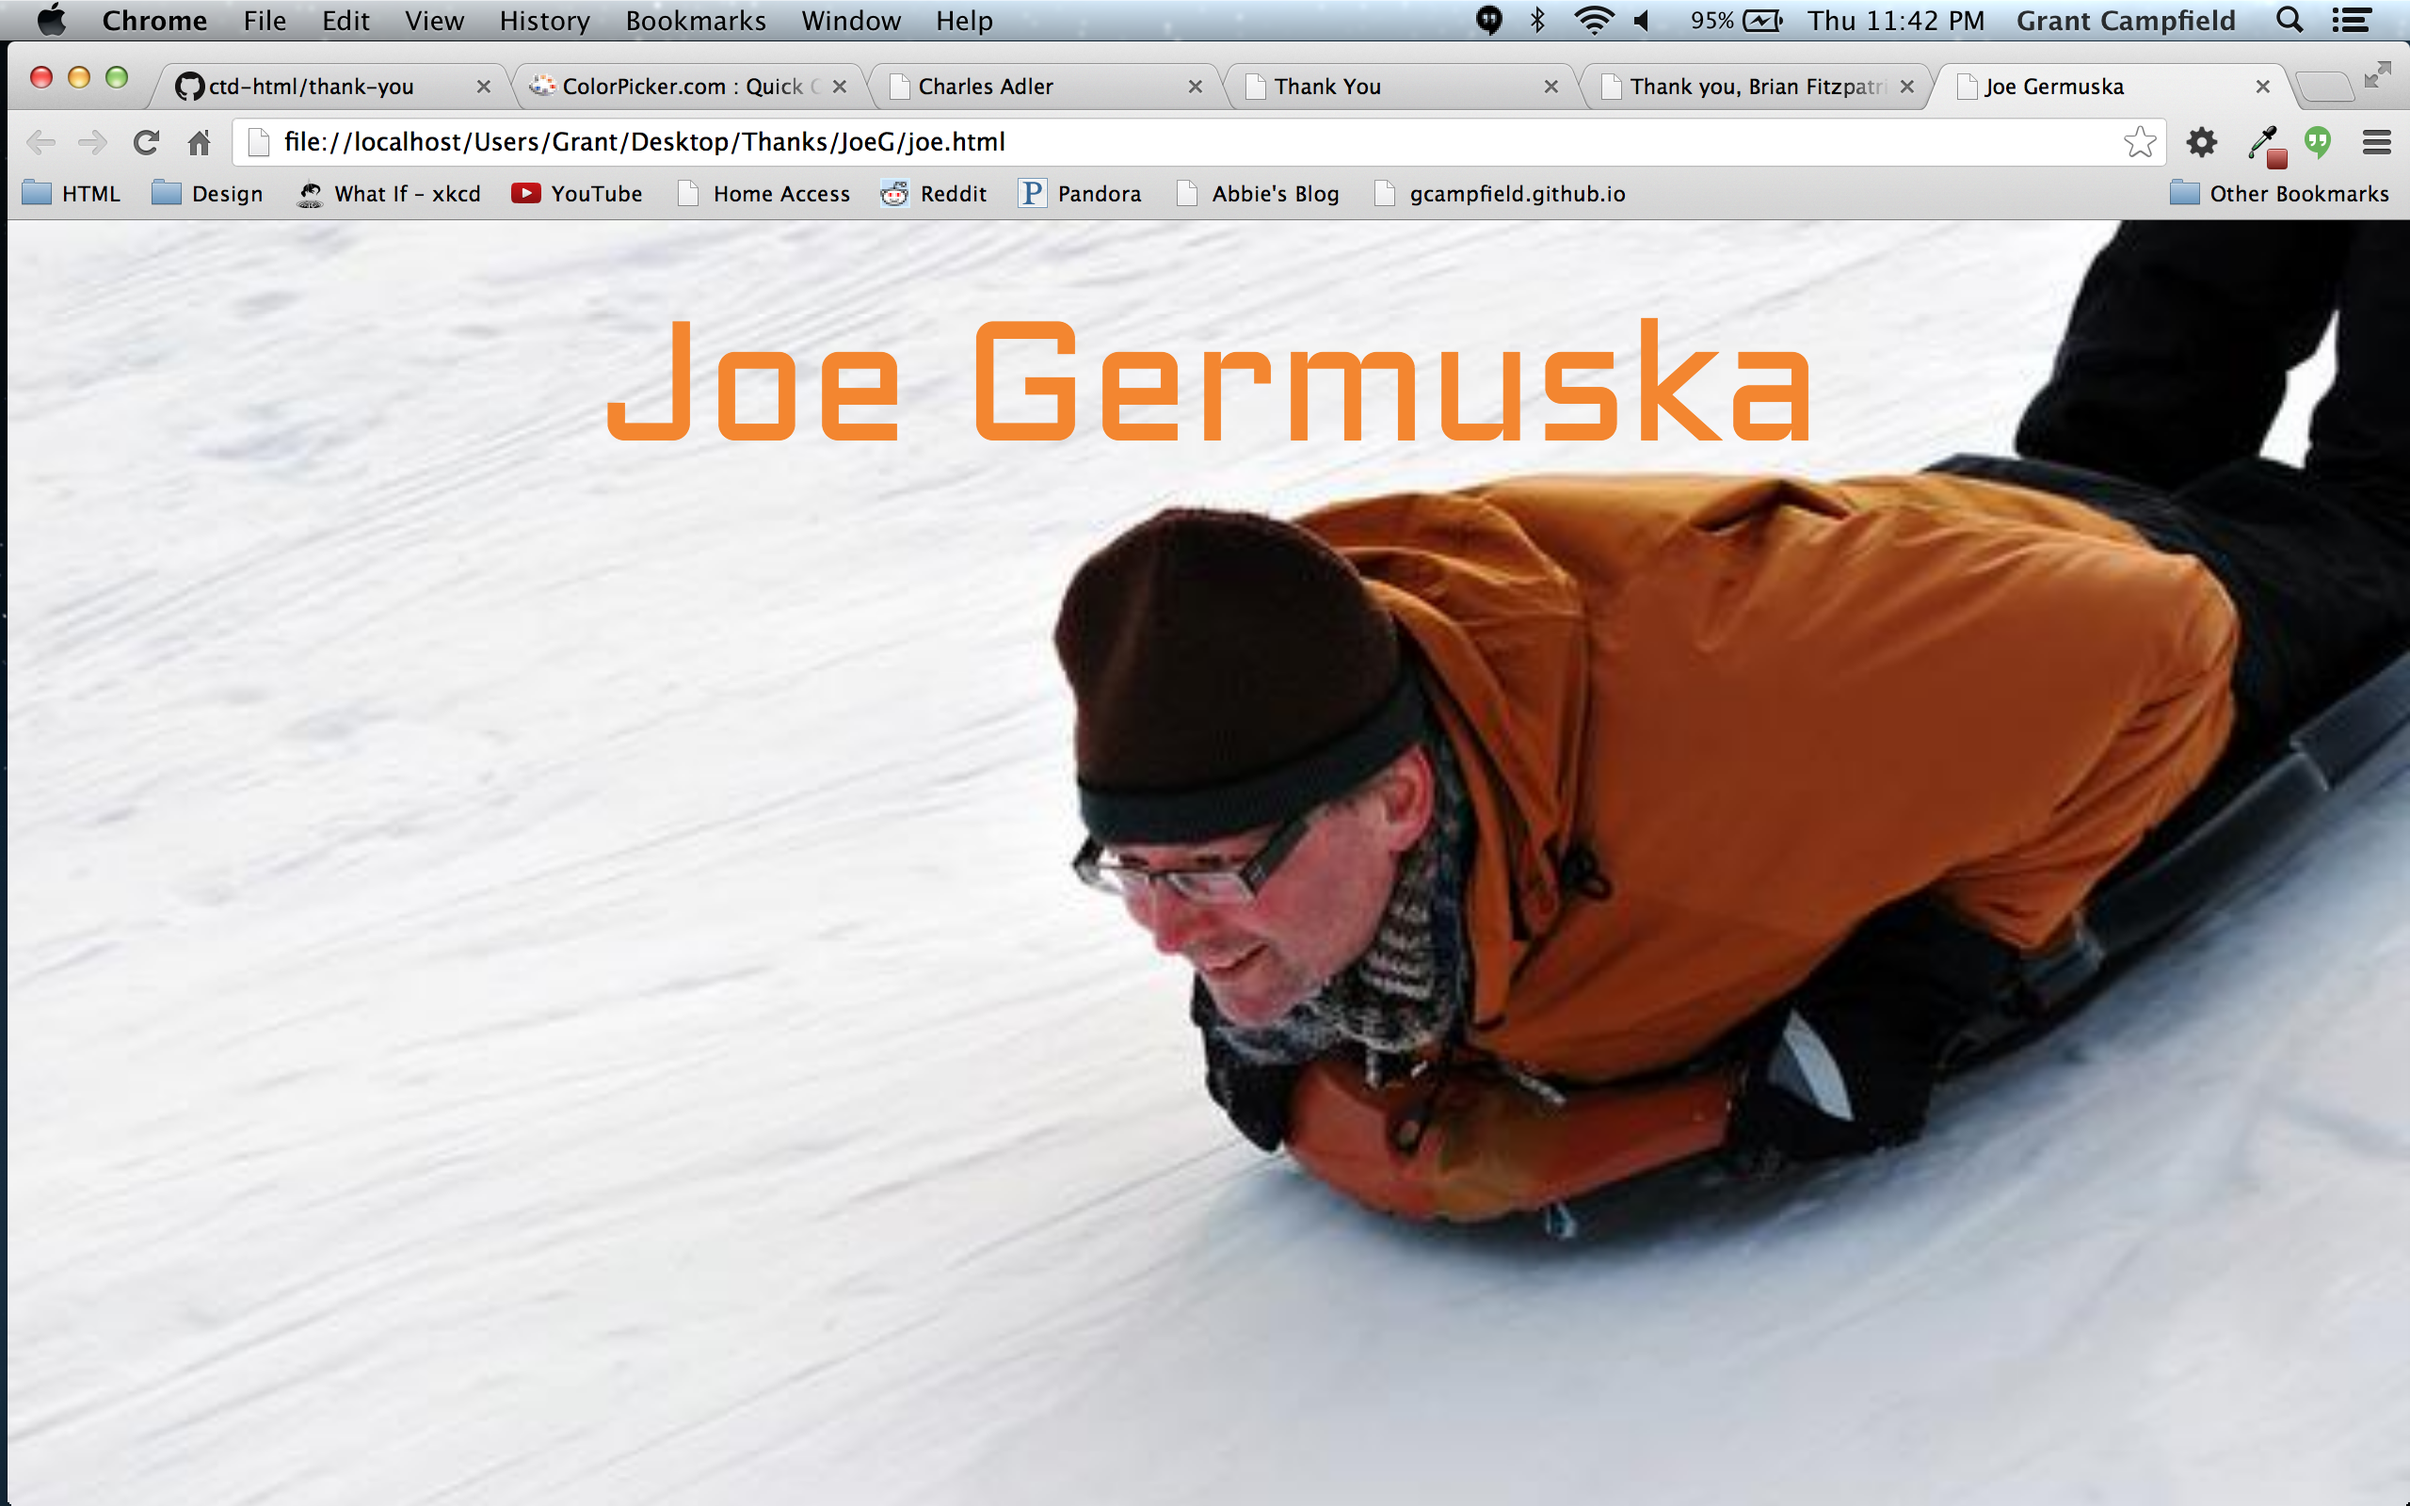
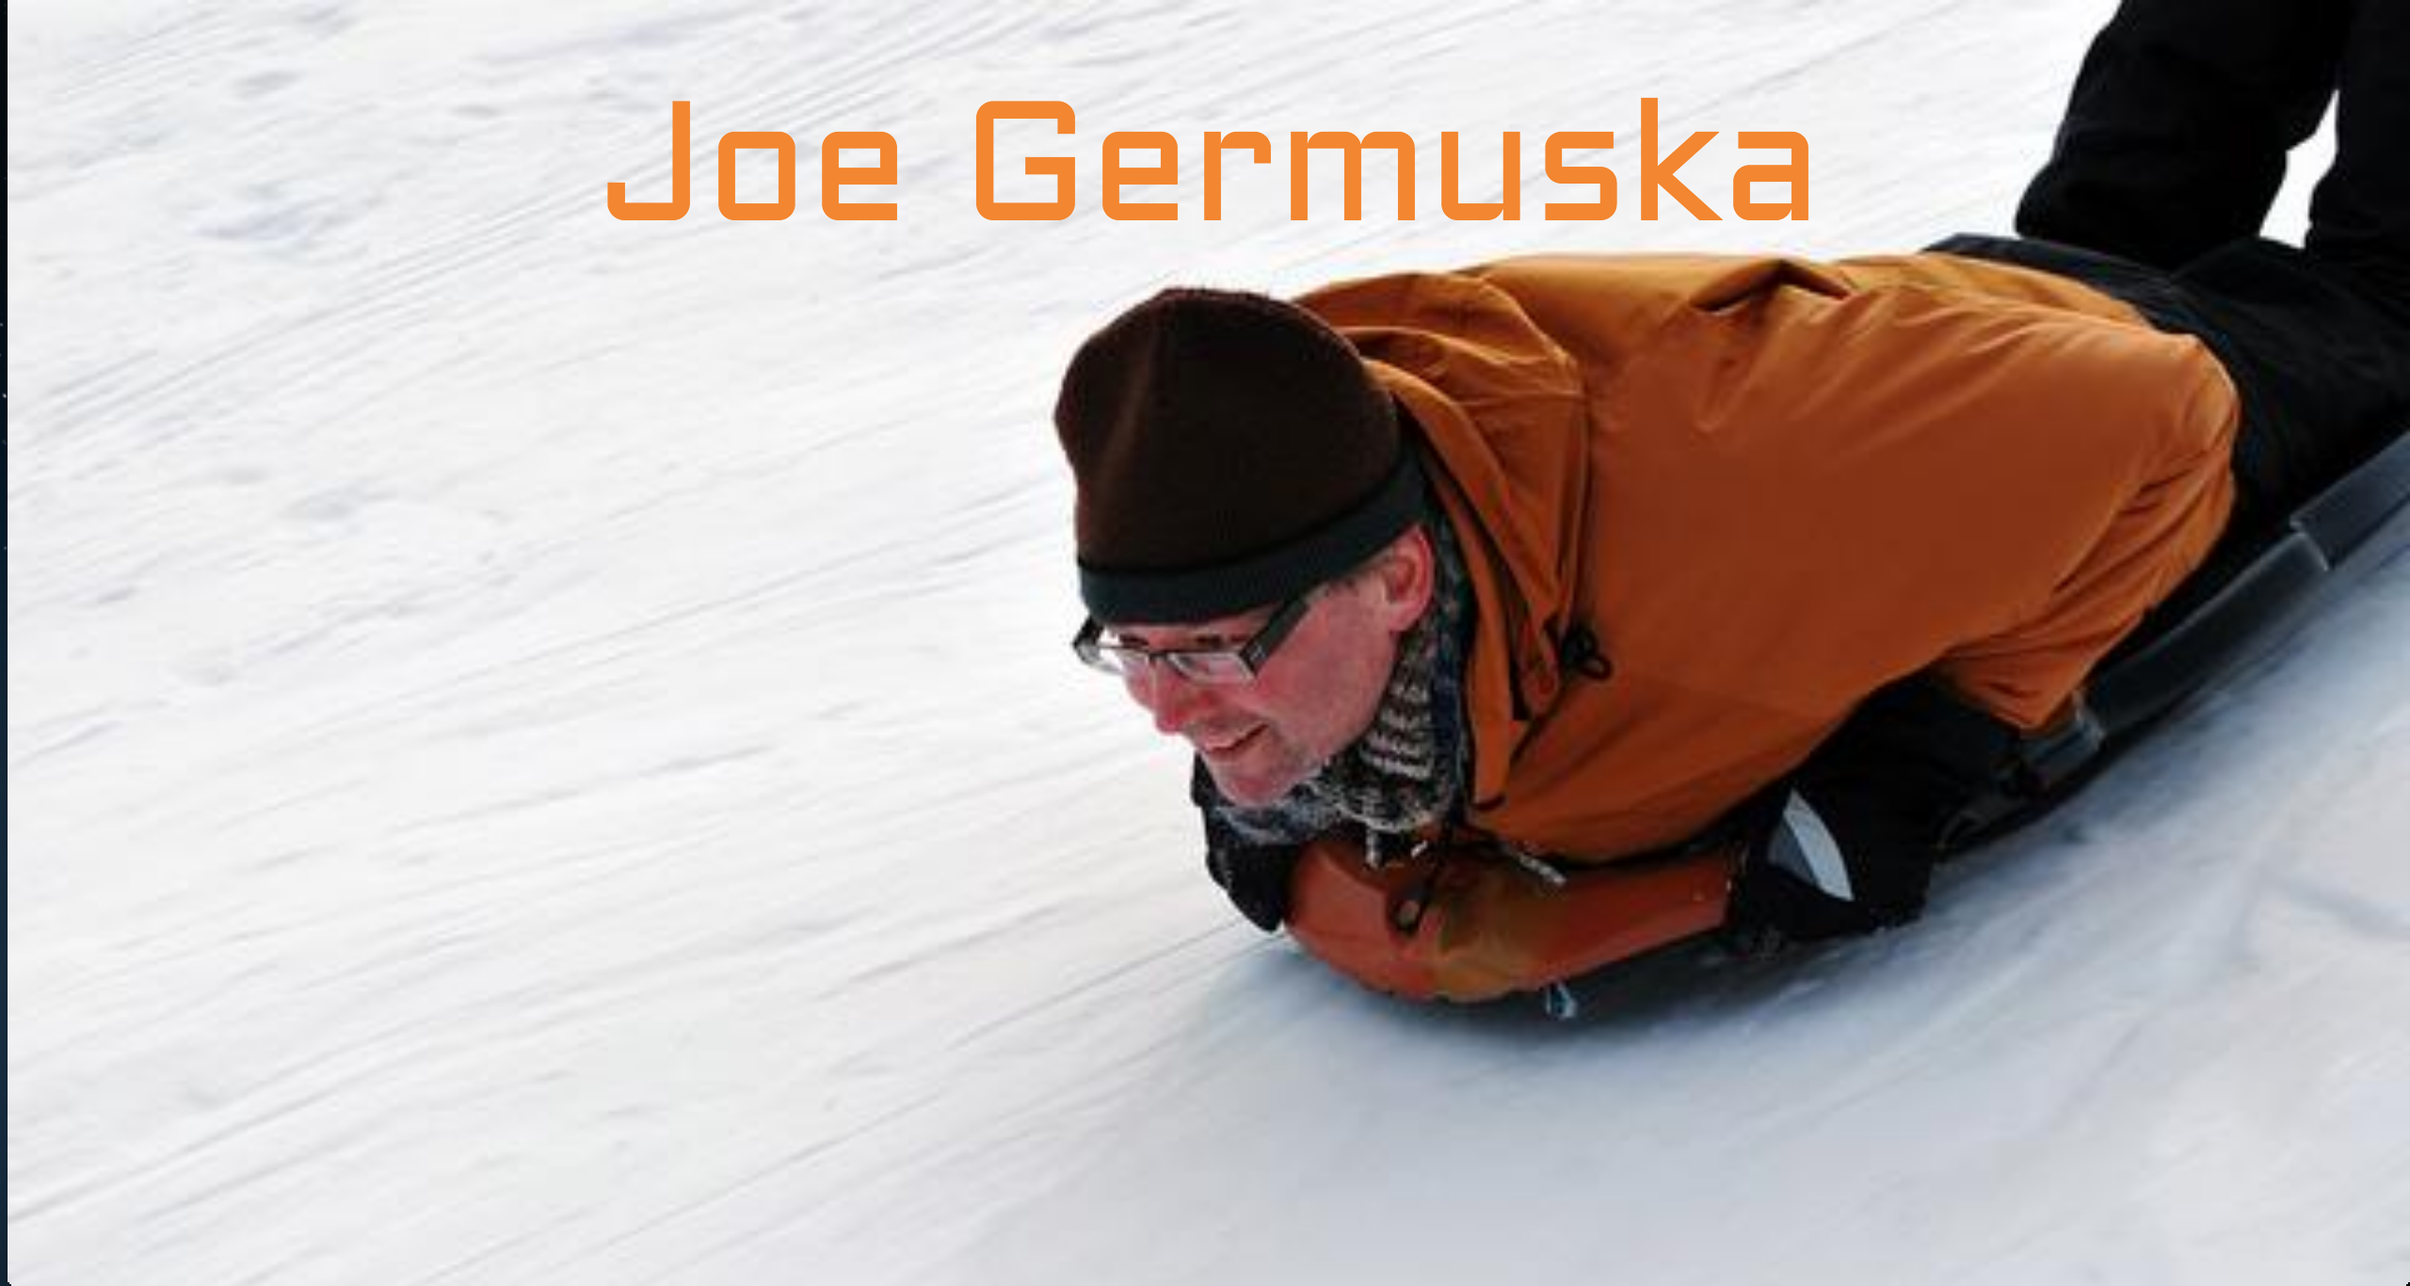
created homepage and cropped images

diff --git a/index.html b/index.html
@@ -1,0 +1,23 @@
+<!DOCTYPE html>
+
+<html>
+<head>
+	<title>Thanks!</title>
+	<link rel="stylesheet" type="text/css" href="styles.css">
+</head>
+<body>
+	<h1>Thanks!</h1>
+	<div class="images">
+		<a href="/CharlesAdler"><img src="adler.png" alt="Charles Adler"></a>
+		<a href="/NickDisabato"><img src="disabato.png" alt="Nick Disabato"></a>
+		<a href="/Fitz"><img src="fitz.png" alt="Brian Fitzpatrick"></a>
+		<a href="/JoeG"><img src="germuska.png" alt="Joe Germuska"></a>
+		<a href="/NateKontny"><img src="kontny.png" alt="Nick Kontny"></a>
+		<a href="/Max+Greg"><img src="maxgreg.png" alt="Max Temkin and Greg Wohlwend"></a>
+		<a href="/Megan+Jack"><img src="meganjack.png" alt="Megan Coleman and Jack Auses"></a>
+		<a href="/PJMacklin"><img src="macklin.png" alt="PJ Macklin"></a>
+		<a href="/ChrisMcAvoy"><img src="mcavoy.png" alt="Chris McAvoy"></a>
+		<a href="/kunish-gansen"><img src="kunishgansen.png" alt="Jason Kunish and Chris Gansen"></a>
+	</div>
+</body>
+</html>

diff --git a/styles.css b/styles.css
@@ -1,0 +1,44 @@
+@import url(http://fonts.googleapis.com/css?family=Parisienne);
+
+* {
+	margin: 0;
+	padding: 0; 
+}
+
+body {
+	background: #490A3D;
+}
+
+h1 {
+	font-family: "Parisienne";
+	font-size: 72px;
+	text-align: center;
+	padding: 5% 0 1%;
+	color: #BD1550;
+}
+
+.images {
+	display: block;
+	margin: 2% 5%;
+	width: 90%;
+	text-align: center;
+}
+
+img {
+	display: inline-block;
+	width: 30%;
+	margin: 1%;
+	border: 3px solid #E97F02;
+}
+
+@media screen and (max-width: 800px) {
+	img {
+		width: 46%;
+	}
+}
+
+@media screen and (max-width: 450px) {
+	img {
+		width: 98%;
+	}
+}
